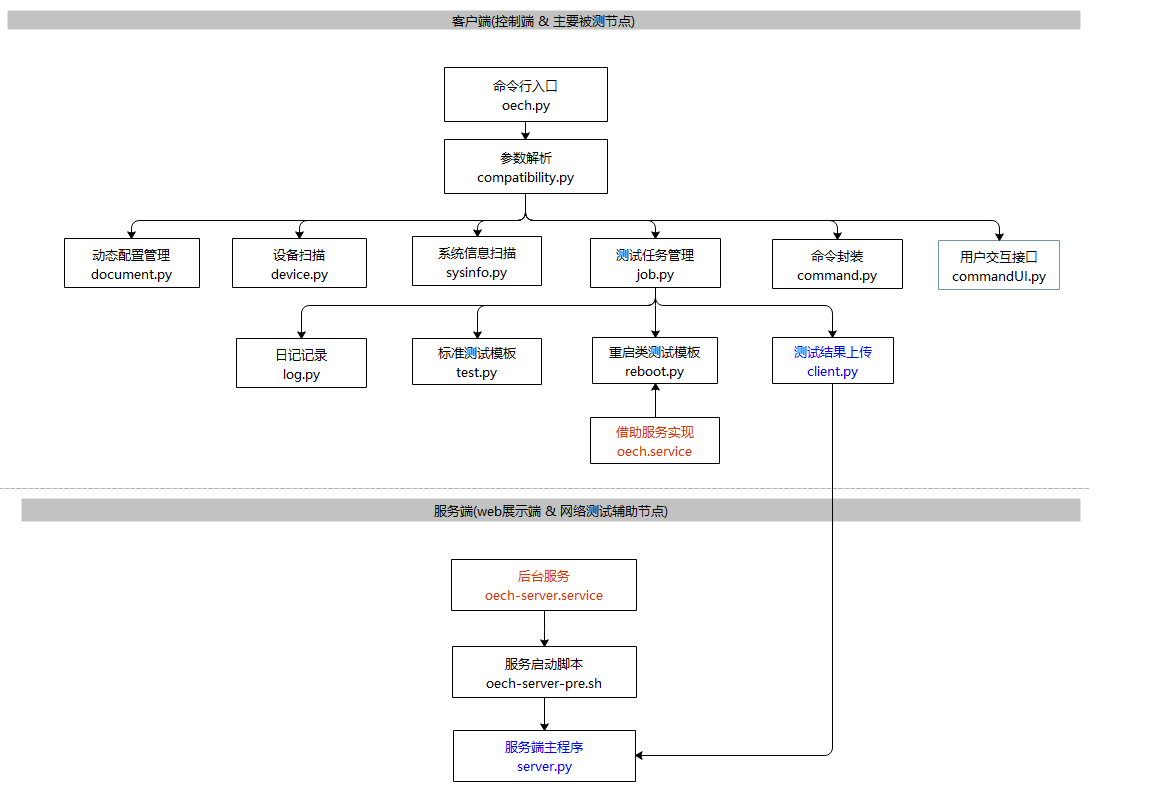
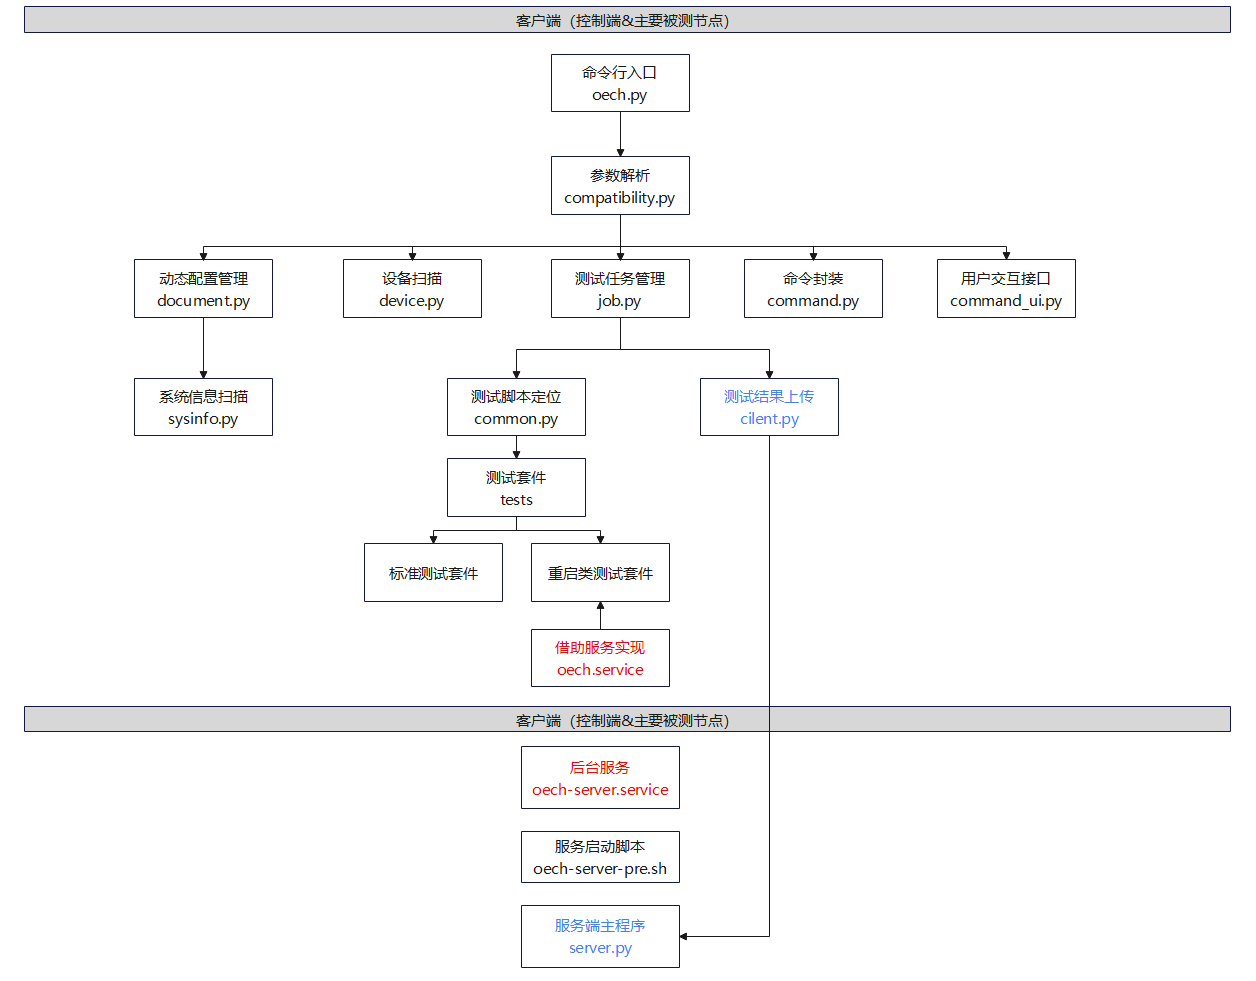
修改补充开发设计文档

Changed region(s): [[0.0, 0.0, 1.0, 1.0], [0.2812, 0.5461, 0.3125, 0.5765]]

diff --git a/docs/design_docs/dev_design.md b/docs/design_docs/dev_design.md
@@ -110,6 +110,8 @@ Mulan V2
 
 ### 3.1 框架概览
 
+#### 3.1.1 框架目录
+
 ```
 .
 ├── hwcompatible 框架主功能
@@ -148,6 +150,10 @@ Mulan V2
 ├── tests    测试套
 └──vendor_tests               厂商测试工具存放目录
 ```
+#### 3.1.2 功能模块分级
+
+![test_module](../pictures/test_module.png)
+
 
 ### 3.2 框架特点
 
